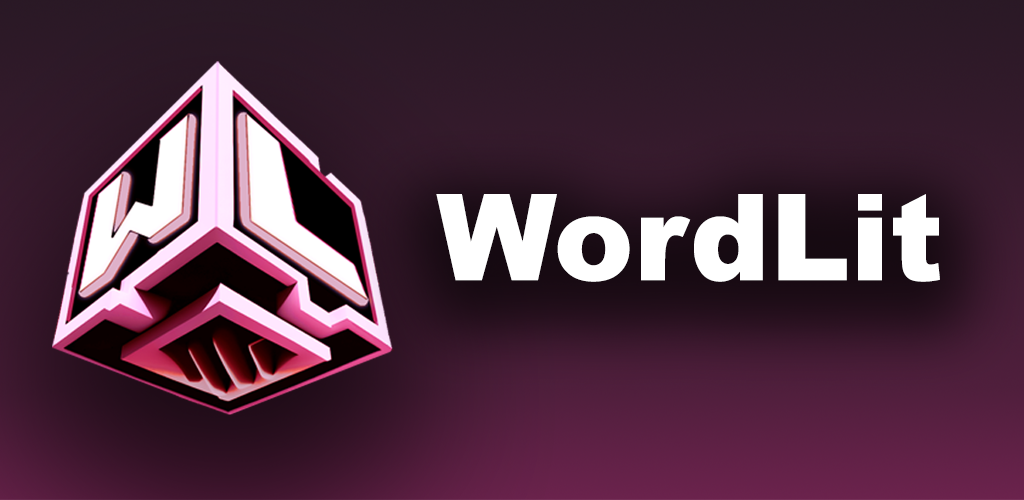
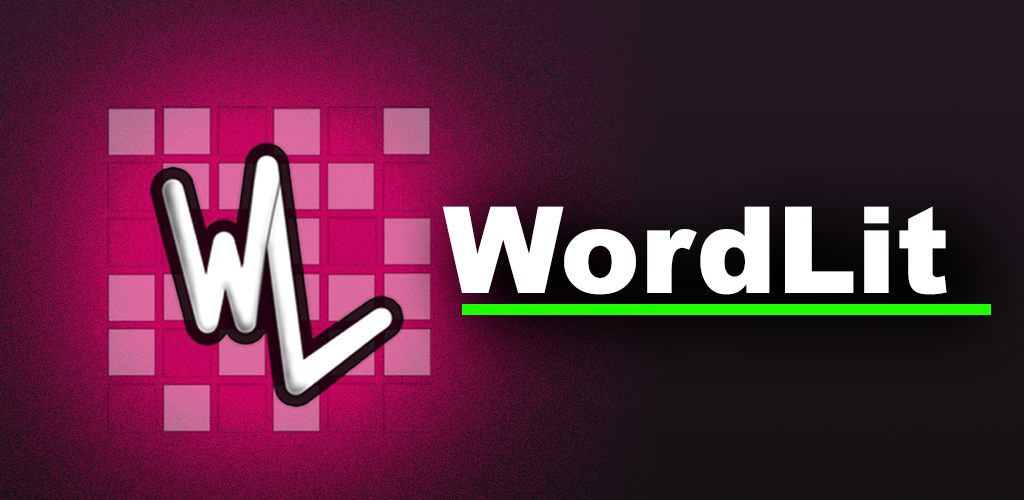
branding update for wordlit

diff --git a/pages/navbar.tsx b/pages/navbar.tsx
@@ -1,6 +1,7 @@
 import { Fragment, useState } from 'react'
 import Image from 'next/image'
 import Head from 'next/head';
+import Link from 'next/link';
 import { Disclosure, Menu, Transition } from '@headlessui/react'
 import { Bars3Icon, BellIcon, XMarkIcon } from '@heroicons/react/24/outline'
 import r_logo from '../public/developer_icon.png'
@@ -60,7 +61,7 @@ export default function Navbar(props: NavbarProps) {
               <div className="mx-auto max-w-7xl px-4 sm:px-6 lg:px-8">
                 <div className="flex h-16 items-center justify-between">
                   <div className="flex items-center">
-                    <div className="flex-shrink-0">
+                    <Link href={'./home'} className="flex-shrink-0">
                       <Image
                       src={r_logo}
                       alt="Riley Games Icon"
@@ -70,7 +71,7 @@ export default function Navbar(props: NavbarProps) {
                           borderRadius: 100
                         }}
                       />
-                    </div>
+                    </Link>
                     <div className="hidden md:block">
                       <div className="ml-10 flex items-baseline space-x-4">
                         {navigation.map((item) => (

diff --git a/pages/home.tsx b/pages/home.tsx
@@ -5,7 +5,7 @@ import home_bg_0 from '../public/home_bg_0.png'
 import cosmic_icon from '../public/cosmic_icon.png'
 import cosmic_feature from '../public/cosmic_feature.png'
 import cosmic_bg from '../public/cosmic_bg.png'
-import wordlit_icon from '../public/wordlit_icon.png'
+import wordlit_icon from '../public/wordlit_icon_2.png'
 import wordlit_feature from '../public/wordlit_feature.png'
 import styles from '../styles/Home.module.css'
 import Wordlit from './games/wordlit'

diff --git a/pages/games.tsx b/pages/games.tsx
@@ -32,6 +32,9 @@ export default function Games() {
         <div id='wordlit_section'>
           <Wordlit />
         </div>
+
+        <div style={{height: '10vh'}} />
+
       </main>
     </>
   )
